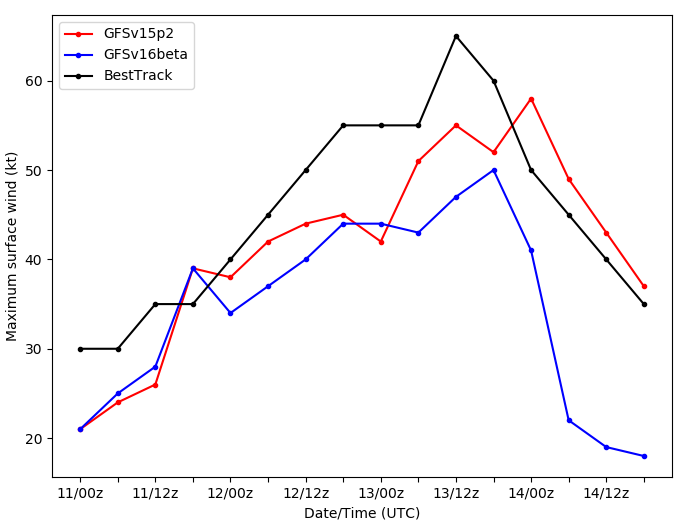
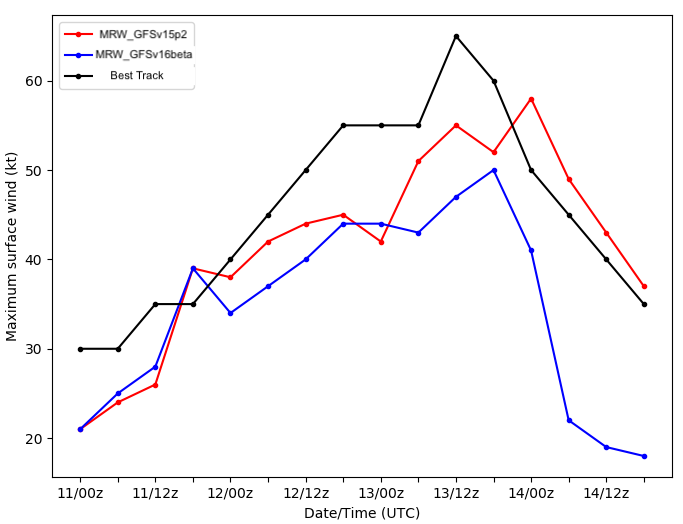
change legends to MRW_GFSv15p2 and MRW_GFSv16beta

Changed region(s): [[0.123, 0.0305, 0.3075, 0.1527]]

diff --git a/docs/examples/TC_Tracks_Intensity.py b/docs/examples/TC_Tracks_Intensity.py
@@ -70,7 +70,7 @@ for k in range(len(bal.lat)):
         lonptt,latptt=m(xptt,yptt,inverse=True)
         bxs1.append(lonn)
         bys1.append(latt)
-cs1=m.plot(bxs1, bys1, linestyle='--',color='Black',label='BestTrack')   
+cs1=m.plot(bxs1, bys1, linestyle='--',color='Black',label='Best Track')   
 
 # Read the vortex center, lat and lon, from BestTrack data to make colored dots along with the tracks  
 bxs1 = []
@@ -103,7 +103,7 @@ for j in range(len(tc.ws)):
         lonpt, latpt = m(xpt, ypt, inverse=True)
         xs1.append(lon)
         ys1.append(lat)  
-cs2=m.plot(xs1, ys1, linestyle='--',color='Red',label='UFSv1.0.0_15p2_hybedmf')
+cs2=m.plot(xs1, ys1, linestyle='--',color='Red',label='MRW_GFSv15p2')
 
 # Read the vortex center, lat and lon, from tc-tracker results for GFSv15p2 to make colored dots along with the tracks  
 xs1 = []
@@ -139,7 +139,7 @@ for j in range(len(tc2.ws)):
         lonpt2, latpt2 = m(xpt2, ypt2, inverse=True)
         xs12.append(lon2)
         ys12.append(lat2)  
-cs22=m.plot(xs12, ys12, linestyle='--',color='Blue',label='UFSv1.0.0_16beta')
+cs22=m.plot(xs12, ys12, linestyle='--',color='Blue',label='MRW_GFSv16beta')
 
 # Read the vortex center, lat and lon, from tc-tracker results for GFSv16beta to make colored dots along with the tracks 
 xs12 = []

diff --git a/docs/source/auto_examples/TC_Tracks_Intensity.py b/docs/source/auto_examples/TC_Tracks_Intensity.py
@@ -70,7 +70,7 @@ for k in range(len(bal.lat)):
         lonptt,latptt=m(xptt,yptt,inverse=True)
         bxs1.append(lonn)
         bys1.append(latt)
-cs1=m.plot(bxs1, bys1, linestyle='--',color='Black',label='BestTrack')   
+cs1=m.plot(bxs1, bys1, linestyle='--',color='Black',label='Best Track')   
 
 # Read the vortex center, lat and lon, from BestTrack data to make colored dots along with the tracks  
 bxs1 = []
@@ -103,7 +103,7 @@ for j in range(len(tc.ws)):
         lonpt, latpt = m(xpt, ypt, inverse=True)
         xs1.append(lon)
         ys1.append(lat)  
-cs2=m.plot(xs1, ys1, linestyle='--',color='Red',label='UFSv1.0.0_15p2_hybedmf')
+cs2=m.plot(xs1, ys1, linestyle='--',color='Red',label='MRW_GFSv15p2')
 
 # Read the vortex center, lat and lon, from tc-tracker results for GFSv15p2 to make colored dots along with the tracks  
 xs1 = []
@@ -139,7 +139,7 @@ for j in range(len(tc2.ws)):
         lonpt2, latpt2 = m(xpt2, ypt2, inverse=True)
         xs12.append(lon2)
         ys12.append(lat2)  
-cs22=m.plot(xs12, ys12, linestyle='--',color='Blue',label='UFSv1.0.0_16beta')
+cs22=m.plot(xs12, ys12, linestyle='--',color='Blue',label='MRW_GFSv16beta')
 
 # Read the vortex center, lat and lon, from tc-tracker results for GFSv16beta to make colored dots along with the tracks 
 xs12 = []

diff --git a/docs/examples/Spatial_2m_T.py b/docs/examples/Spatial_2m_T.py
@@ -61,7 +61,7 @@ cnres.mpOutlineBoundarySets = "USStates"
 
 # Plot resources
 cnres0=cnres
-cnres0.tiMainString = "FV3 GFSv16beta: 2m Temp (F) FV3 ~C~Initilized 12Z 17 Jan 2020 valid 12Z 21 Jan 2020"#"{} ({}) at {:.2f} hPa with fast_sat".format(clwmr.long_name,clwmr.units,vpfull)
+cnres0.tiMainString = "MRW_GFSv16beta: 2m Temp (F) FV3 ~C~Initilized 12Z 17 Jan 2020 valid 12Z 21 Jan 2020"#"{} ({}) at {:.2f} hPa with fast_sat".format(clwmr.long_name,clwmr.units,vpfull)
 cnres0.tiMainFontHeightF=0.012
 contour = Ngl.contour_map(wks,tmp2mF[:,:],cnres0)
 

diff --git a/docs/source/auto_examples/Spatial_2m_T.py b/docs/source/auto_examples/Spatial_2m_T.py
@@ -61,7 +61,7 @@ cnres.mpOutlineBoundarySets = "USStates"
 
 # Plot resources
 cnres0=cnres
-cnres0.tiMainString = "FV3 GFSv16beta: 2m Temp (F) FV3 ~C~Initilized 12Z 17 Jan 2020 valid 12Z 21 Jan 2020"#"{} ({}) at {:.2f} hPa with fast_sat".format(clwmr.long_name,clwmr.units,vpfull)
+cnres0.tiMainString = "MRW_GFSv16beta: 2m Temp (F) FV3 ~C~Initilized 12Z 17 Jan 2020 valid 12Z 21 Jan 2020"#"{} ({}) at {:.2f} hPa with fast_sat".format(clwmr.long_name,clwmr.units,vpfull)
 cnres0.tiMainFontHeightF=0.012
 contour = Ngl.contour_map(wks,tmp2mF[:,:],cnres0)
 

diff --git a/docs/examples/tracker_ws_Barry.py b/docs/examples/tracker_ws_Barry.py
@@ -51,9 +51,9 @@ t=np.arange(0,16,1)
 
 #Make the plot
 plt.figure(figsize=(8,6)) 
-plt.plot(t,tcws,'.-r',label="GFSv15p2")
-plt.plot(t,tc2ws,'.-b',label="GFSv16beta")
-plt.plot(t,balws,'.-k',label="BestTrack")
+plt.plot(t,tcws,'.-r',label="MRW_GFSv15p2")
+plt.plot(t,tc2ws,'.-b',label="MRW_GFSv16beta")
+plt.plot(t,balws,'.-k',label="Best Track")
 plt.legend(loc="upper left")
 my_xticks=['11/00z','','11/12z','','12/00z','','12/12z','','13/00z','','13/12z','','14/00z','','14/12z','']
 plt.xlabel('Date/Time (UTC)')

diff --git a/docs/source/auto_examples/tracker_ws_Barry.py b/docs/source/auto_examples/tracker_ws_Barry.py
@@ -51,9 +51,9 @@ t=np.arange(0,16,1)
 
 #Make the plot
 plt.figure(figsize=(8,6)) 
-plt.plot(t,tcws,'.-r',label="GFSv15p2")
-plt.plot(t,tc2ws,'.-b',label="GFSv16beta")
-plt.plot(t,balws,'.-k',label="BestTrack")
+plt.plot(t,tcws,'.-r',label="MRW_GFSv15p2")
+plt.plot(t,tc2ws,'.-b',label="MRW_GFSv16beta")
+plt.plot(t,balws,'.-k',label="Best Track")
 plt.legend(loc="upper left")
 my_xticks=['11/00z','','11/12z','','12/00z','','12/12z','','13/00z','','13/12z','','14/00z','','14/12z','']
 plt.xlabel('Date/Time (UTC)')

diff --git a/docs/examples/500mb_HGT_ABS.py b/docs/examples/500mb_HGT_ABS.py
@@ -80,7 +80,7 @@ cnres0=cnres
 cnres0.lbLabelFontHeightF = 0.012
 cnres0.pmLabelBarHeightF =0.1
 cnres0.pmLabelBarWidthF=0.6
-mpres.tiMainString = "UFS_v1.0.0_GFSv16beta: 500mb Heights(dam) /Abs Vorticity (10^-5/s)/ Winds (m/s)  ~C~  Initialized: 12Z 25 Oct 2019 | Valid: 00Z 1 Nov 2019"
+mpres.tiMainString = "MRW_GFSv16beta: 500mb Heights(dam) /Abs Vorticity (10^-5/s)/ Winds (m/s)  ~C~  Initialized: 12Z 25 Oct 2019 | Valid: 00Z 1 Nov 2019"
 mpres.tiMainFontHeightF=0.012
 mpres.tiMainPosition = "Center"
 

diff --git a/docs/source/auto_examples/500mb_HGT_ABS.py b/docs/source/auto_examples/500mb_HGT_ABS.py
@@ -80,7 +80,7 @@ cnres0=cnres
 cnres0.lbLabelFontHeightF = 0.012
 cnres0.pmLabelBarHeightF =0.1
 cnres0.pmLabelBarWidthF=0.6
-mpres.tiMainString = "UFS_v1.0.0_GFSv16beta: 500mb Heights(dam) /Abs Vorticity (10^-5/s)/ Winds (m/s)  ~C~  Initialized: 12Z 25 Oct 2019 | Valid: 00Z 1 Nov 2019"
+mpres.tiMainString = "MRW_GFSv16beta: 500mb Heights(dam) /Abs Vorticity (10^-5/s)/ Winds (m/s)  ~C~  Initialized: 12Z 25 Oct 2019 | Valid: 00Z 1 Nov 2019"
 mpres.tiMainFontHeightF=0.012
 mpres.tiMainPosition = "Center"
 

diff --git a/docs/source/2019Barry.rst b/docs/source/2019Barry.rst
@@ -30,7 +30,7 @@ Hurricane Barry made landfall in Louisiana on July 11, 2019. The peak wind speed
 Model Configuration and Datasets
 ................................
 
-The UFS Medium-Range (MR) Weather Application (App) is used to prepare initial conditions, compile and run the UFS model, and post process the raw model outputs. Two model configuration compsets (``GFSv15p2`` and ``GFSv16beta``) are tested using the :emphasis:`C768` (~13km) spatial resolution with 64 vertical levels (default).
+The UFS Medium-Range Weather (MRW) Application (App) is used to prepare initial conditions, compile and run the UFS model, and post process the raw model outputs. Two model configuration compsets (``GFSv15p2`` and ``GFSv16beta``) are tested using the :emphasis:`C768` (~13km) spatial resolution with 64 vertical levels (default).
 
 The case runs are initialized at 00z Jul 11, 2019 with 120 hours forecasting. The app uses ``./xmlchange`` to change the runtime settings. The settings that need to be modified to set up the start date, start time, and run time are listed below.
 
@@ -61,10 +61,10 @@ Hurricane Track and Intensity
   :width: 400
   :align: center
 
-  Hurricane tracks from GFSv16beta (red dashed line), GFSv15p2 (blue dashed line), and BestTrack (black dashed line). The dots are color coded with the vortex maximum 10-m wind speed (WS, kt). 
+  Hurricane tracks from MRW_GFSv16beta (red dashed line), MRW_GFSv15p2 (blue dashed line), and BestTrack (black dashed line). The dots are color coded with the vortex maximum 10-m wind speed (WS, kt). 
 
-* Both GFSv16beta and GFSv15p2 generate right-of-track bias. 
-* Hurricane track and intensity simulated by GFSv15p2 are closer to BestTrack compared with GFSv16beta. 
+* Both MRW_GFSv16beta and MRW_GFSv15p2 generate right-of-track bias. 
+* Hurricane track and intensity simulated by MRW_GFSv15p2 are closer to BestTrack compared with GFSv16beta. 
 
 
 .. figure:: images/tracker_ws_mslp_Barry.png
@@ -81,10 +81,10 @@ Comparison with Satellite Data
   :width: 1600
   :align: center
 
-  Simulated outgoing longwave radiation (OLR) at the top of atmosphere (TOA) from GFSv16beta and GFSv15p2, and infrared images from `NASA Worldview <https://worldview.earthdata.nasa.gov/>`_ at the forecast hour of 72.
+  Simulated outgoing longwave radiation (OLR) at the top of atmosphere (TOA) from MRW_GFSv16beta and MRW_GFSv15p2, and infrared images from `NASA Worldview <https://worldview.earthdata.nasa.gov/>`_ at the forecast hour of 72.
 
 * Comparison with satellite product also indicates a right-of-track error
-* Lower OLR near the tropical cyclone (TC) center suggests more clouds in GFSv15p2 than in GFSv16beta 
+* Lower OLR near the tropical cyclone (TC) center suggests more clouds in MRW_GFSv15p2 than in MRW_GFSv16beta 
 
 =============================================
 Hovmöller diagram of 850 hPa WS after Landfall
@@ -97,7 +97,7 @@ Hovmöller diagram of 850 hPa WS after Landfall
   Hovmöller diagram of wind speed and 850 hPa and the radius of maximum wind (RMW, white line) after landfall
 
 * The low-level wind speed in GFS model is smaller than GFS_ANL
-* The GFSv16beta has the largest inner core size. GFS15p2 has similar inner core sizes and GFS_ANL 
+* The MRW_GFSv16beta has the largest inner core size. MRW_GFS15p2 has similar inner core sizes and GFS_ANL 
 * Hurricane intensity attenuates faster in the model compared with BestTrack after landfall 
 
 

diff --git a/docs/source/Intro.rst b/docs/source/Intro.rst
@@ -9,7 +9,7 @@ Introduction
 
 Challenges for accurate weather prediction still exist in numerical models. To facilitate the development and improvement of the NOAA `Unified Forecast System (UFS) <https://ufscommunity.org/>`_ Weather Model (WM), case studies are needed based on these forecast challenges. There are several known model biases in the UFS WM. These known biases include but are not limited to progressive synoptic patters, degraded tropical cyclone tracks, and incapability to simulate stable boundary layer structures.
 
-This document provides case studies evaluation results for the UFS WM using the `UFS Medium Range Weather App <https://ufs-mrweather-app.readthedocs.io/en/latest/index.html>`_. The app uses a workflow that incorporates pre-processing software, forecast model, and post-processor. The app serves as a useful tool to conduct the UFS WM runs. It should be noted that this is an ongoing effort that is aligned with the model development and model public release. Namely these evaluation results only apply to specific model versions. The latest evaluation results are based on physics compsets of ``GFSv15p2`` and ``GFSv16beta`` employed in UFS Medium Range Weather App *v1.0*.
+This document provides case studies evaluation results for the UFS WM using the `UFS Medium Range Weather (MRW) App <https://ufs-mrweather-app.readthedocs.io/en/latest/index.html>`_. The app uses a workflow that incorporates pre-processing software, forecast model, and post-processor. The app serves as a useful tool to conduct the UFS WM runs. It should be noted that this is an ongoing effort that is aligned with the model development and model public release. Namely these evaluation results only apply to specific model versions. The latest evaluation results are based on physics compsets of ``GFSv15p2`` and ``GFSv16beta`` employed in UFS Medium Range Weather App *v1.0*, hereafter referred to as MRW_GFSv15p2 and MRW_GFSv16beta, respectively.
 
 The goal of this ongoing effort is to provide the community with a model testing platform where they can use the resources to conduct model runs and evaluate the model performance for representative meteorological cases. These case studies will provide insights for future model developments in aim to improve NOAA numerical weather forecasts. 
 

diff --git a/docs/source/TC_WS_TimeSeries.rst b/docs/source/TC_WS_TimeSeries.rst
@@ -12,7 +12,7 @@
 Plotting Time Series of Vortex Center Max. WS
 ==========================================
 
-This example plots time series of the maximum wind speed at the vortex center estimated from tc-tracker, as well as BestTrack data.
+This example plots time series of the maximum wind speed at the vortex center estimated from tc-tracker, as well as Best Track data.
 
 
 .. code-block:: default
@@ -35,14 +35,14 @@ This example plots time series of the maximum wind speed at the vortex center es
     bal_file ="/home/Xia.Sun/PySripts/TC_tracker/bal022019_post.dat"
     bal = np.recfromcsv(bal_file,unpack=True,delimiter=",",usecols=[0,2,6,7,8,9,10,11],names=['stormid','time','lat','lon','ws','mslp','intens','thresh'],dtype=None)
 
-    # Read in wind speed from BestTrack Data
+    # Read in wind speed from Best Track Data
     balws=[]
     for k in range(len(bal.lat)):
         if bal.thresh[k] == 34 or bal.thresh[k] == 0:
             balwsd=float(bal.ws[k])
             balws.append(balwsd)
 
-    # Read in wind speed from GFSv15p2
+    # Read in wind speed from MRW_GFSv15p2
     encoding='utf-8'
     tcws=[]
     for j in range(len(tc.ws)):
@@ -51,7 +51,7 @@ This example plots time series of the maximum wind speed at the vortex center es
             tcwsd=float(tc.ws[j])
             tcws.append(tcwsd) 
 
-    # Read in wind speed from GFSv16beta
+    # Read in wind speed from MRW_GFSv16beta
     tc2ws=[]
     for j in range(len(tc2.ws)-1):
         tc2stormid=str(tc2.stormid[j],encoding)
@@ -64,9 +64,9 @@ This example plots time series of the maximum wind speed at the vortex center es
 
     # Make the plot
     plt.figure(figsize=(8,6)) 
-    plt.plot(t,tcws,'.-r',label="GFSv15p2")
-    plt.plot(t,tc2ws,'.-b',label="GFSv16beta")
-    plt.plot(t,balws,'.-k',label="BestTrack")
+    plt.plot(t,tcws,'.-r',label="MRW_GFSv15p2")
+    plt.plot(t,tc2ws,'.-b',label="MRW_GFSv16beta")
+    plt.plot(t,balws,'.-k',label="Best Track")
     plt.legend(loc="upper left")
     my_xticks=['11/00z','','11/12z','','12/00z','','12/12z','','13/00z','','13/12z','','14/00z','','14/12z','']
     plt.xlabel('Date/Time (UTC)')

diff --git a/docs/source/TC_Tracks_Intensity.rst b/docs/source/TC_Tracks_Intensity.rst
@@ -82,7 +82,7 @@ This example plots the hurricane tracks and intensity estimated from tc-tracker 
             lonptt,latptt=m(xptt,yptt,inverse=True)
             bxs1.append(lonn)
             bys1.append(latt)
-    cs1=m.plot(bxs1, bys1, linestyle='--',color='Black',label='BestTrack')   
+    cs1=m.plot(bxs1, bys1, linestyle='--',color='Black',label='Best Track')   
 
     # Read the vortex center, lat and lon, from BestTrack data to make colored dots along with the tracks  
     bxs1 = []
@@ -115,7 +115,7 @@ This example plots the hurricane tracks and intensity estimated from tc-tracker 
             lonpt, latpt = m(xpt, ypt, inverse=True)
             xs1.append(lon)
             ys1.append(lat)  
-    cs2=m.plot(xs1, ys1, linestyle='--',color='Red',label='UFSv1.0.0_15p2_hybedmf')
+    cs2=m.plot(xs1, ys1, linestyle='--',color='Red',label='MRW_GFSv15p2')
 
     # Read the vortex center, lat and lon, from tc-tracker results for GFSv15p2 to make colored dots along with the tracks  
     xs1 = []
@@ -151,7 +151,7 @@ This example plots the hurricane tracks and intensity estimated from tc-tracker 
             lonpt2, latpt2 = m(xpt2, ypt2, inverse=True)
             xs12.append(lon2)
             ys12.append(lat2)  
-    cs22=m.plot(xs12, ys12, linestyle='--',color='Blue',label='UFSv1.0.0_16beta')
+    cs22=m.plot(xs12, ys12, linestyle='--',color='Blue',label='MRW_GFSv16beta')
 
     # Read the vortex center, lat and lon, from tc-tracker results for GFSv16beta to make colored dots along with the tracks 
     xs12 = []
